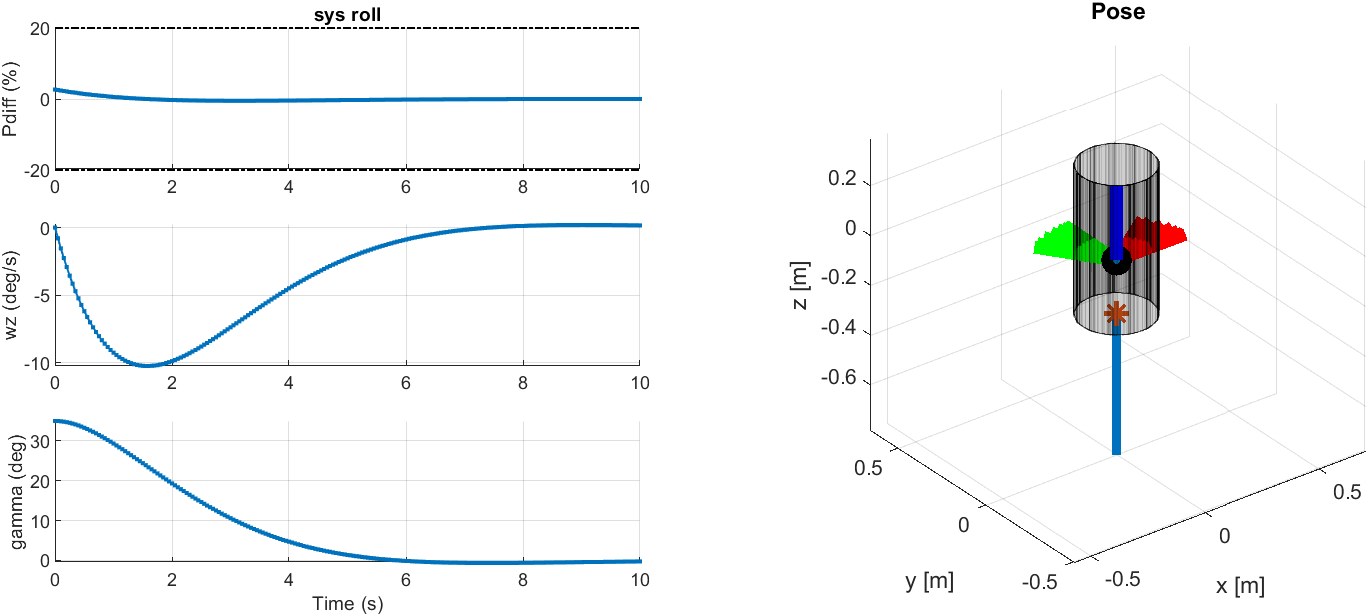
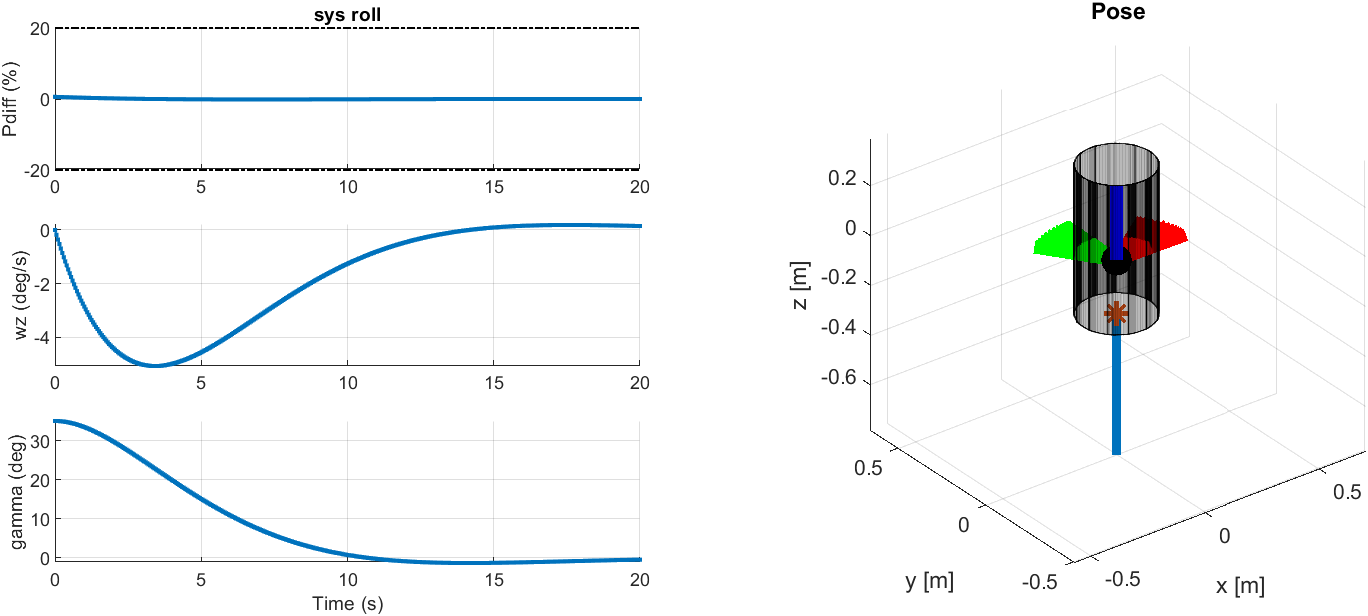
impossible to reproduce the tuning reasoning

diff --git a/rocket_project/Deliverable_3_1/Deliverable_3_1.m b/rocket_project/Deliverable_3_1/Deliverable_3_1.m
@@ -17,11 +17,15 @@ rocket = Rocket(Ts);
 sys = rocket.linearize(xs, us);
 [sys_x, sys_y, sys_z, sys_roll] = rocket.decompose(sys, xs, us);
 
+sim_duration_master = 20;
+sim_horizon_master = 2;
+sim_start_point = 4;
+
 %% Simulate the roll system
 % Design MPC controller
-H = 4; % Horizon length in seconds
+H = 2; % Horizon length in seconds
 % for H<3 there is overshoot
-sim_duration = 10;
+sim_duration = sim_duration_master;
 num_steps = sim_duration/Ts;
 x0 = [0; deg2rad(35)]; % initial state
 mpc_roll = MpcControl_roll(sys_roll, Ts, H);
@@ -54,11 +58,11 @@ ph = rocket.plotvis_sub(T, X_sub, U_sub, sys_roll, xs, us);
 
 %% Simulate the x system
 % Design MPC controller
-H = 4;
-sim_duration = 10;
+H = sim_horizon_master;
+sim_duration = sim_duration_master;
 num_steps = sim_duration/Ts;
 
-x0 = [0; 0; 0; 4]; % initial state
+x0 = [0; 0; 0; sim_start_point]; % initial state
 
 mpc_x = MpcControl_x(sys_x, Ts, H);
 % Get control input
@@ -91,11 +95,11 @@ ph = rocket.plotvis_sub(T, X_sub, U_sub, sys_x, xs, us);
 
 %% Simulate the y system
 % Design MPC controller
-H = 4;
-sim_duration = 10;
+H = sim_horizon_master;
+sim_duration = sim_duration_master;
 num_steps = sim_duration/Ts;
 
-x0 = [0; 0; 0; 4]; % initial state
+x0 = [0; 0; 0; sim_start_point]; % initial state
 
 mpc_y = MpcControl_y(sys_y, Ts, H);
 % Get control input
@@ -128,11 +132,11 @@ ph = rocket.plotvis_sub(T, X_sub, U_sub, sys_y, xs, us);
 
 %% Simulate the z system
 % Design MPC controller
-H = 4;
-sim_duration = 10;
+H = sim_horizon_master;
+sim_duration = sim_duration_master;
 num_steps = sim_duration/Ts;
 
-x0 = [0; 4]; % initial state
+x0 = [0; sim_start_point]; % initial state
 
 mpc_z = MpcControl_z(sys_z, Ts, H);
 % Get control input

diff --git a/rocket_project/Deliverable_3_1/MpcControl_y.m b/rocket_project/Deliverable_3_1/MpcControl_y.m
@@ -39,7 +39,7 @@ classdef MpcControl_y < MpcControlBase
             hu = [deg2rad(15); deg2rad(15)]; % constraint on the input d1
 
             % costs for the LQR controller
-            Q = 2*eye(nx);
+            Q = 1*eye(nx);
             R = eye(nu);
 
             % K is the LQR controller, P is the final cost
@@ -57,25 +57,6 @@ classdef MpcControl_y < MpcControlBase
             term_set = max_contr_invar_set(Poly_xu, Ak);
             [Hxf, hxf] = double(term_set); % terminal constraint
 
-             % plot the polytope
-            f = figure();
-            sgtitle("Terminal set polytope dimensions projections - y")
-            subplot(2,3,1)
-            term_set.projection(1:2).plot();
-            title("Dims 1 & 2")
-            subplot(2,3,2)
-            term_set.projection(2:3).plot();
-            title("Dims 2 & 3")
-            subplot(2,3,3)
-            term_set.projection(3:4).plot();
-            title("Dims 3 & 4")
-            subplot(2,3,4)
-            term_set.projection([3,1]).plot();
-            title("Dims 3 & 1")
-            subplot(2,3,5)
-            term_set.projection([4,1]).plot();
-            title("Dims 4 & 1")
-            exportgraphics(f, "Deliverable_3_1/Figures/3.1_y_terminal_set.png")
 
             % SET THE PROBLEM CONSTRAINTS con AND THE OBJECTIVE obj HERE
             obj = 0;

diff --git a/rocket_project/Deliverable_3_1/MpcControl_x.m b/rocket_project/Deliverable_3_1/MpcControl_x.m
@@ -39,7 +39,7 @@ classdef MpcControl_x < MpcControlBase
             hu = [deg2rad(15); deg2rad(15)];
 
             % costs for the LQR controller
-            Q = 2*eye(nx);
+            Q = 1*eye(nx);
             R = eye(nu);
 
             % K is the LQR controller, P is the final cost
@@ -55,26 +55,6 @@ classdef MpcControl_x < MpcControlBase
             % the terminal set of the controller K in closed loop
             Poly_xu = polytope(Hxu, hxu);
             term_set = max_contr_invar_set(Poly_xu,Ak);
-            
-            % plot the polytope
-            f = figure();
-            sgtitle("Terminal set polytope dimensions projections - x")
-            subplot(2,3,1)
-            term_set.projection(1:2).plot();
-            title("Dims 1 & 2")
-            subplot(2,3,2)
-            term_set.projection(2:3).plot();
-            title("Dims 2 & 3")
-            subplot(2,3,3)
-            term_set.projection(3:4).plot();
-            title("Dims 3 & 4")
-            subplot(2,3,4)
-            term_set.projection([3,1]).plot();
-            title("Dims 3 & 1")
-            subplot(2,3,5)
-            term_set.projection([4,1]).plot();
-            title("Dims 4 & 1")
-            exportgraphics(f, "Deliverable_3_1/Figures/3.1_x_terminal_set.png")
 
             [Hxf, hxf] = double(term_set); % terminal constraint
 

diff --git a/rocket_project/Deliverable_3_1/MpcControl_z.m b/rocket_project/Deliverable_3_1/MpcControl_z.m
@@ -51,7 +51,7 @@ classdef MpcControl_z < MpcControlBase
             hu = [80-56.66667; -(50-56.66667)];
 
             % costs for the LQR controller
-            Q = 10.*eye(nx);
+            Q = 1*eye(nx);
             R = eye(nu);
 
             % K is the LQR controller, P is the final cost
@@ -68,12 +68,6 @@ classdef MpcControl_z < MpcControlBase
             Poly_xu = polytope(Hxu, hxu);
             term_set = max_contr_invar_set(Poly_xu, Ak);
             [Hxf, hxf] = double(term_set); % terminal constraint
-
-             % plot the polytope
-            f = figure();
-            title("Terminal set polytope - z")
-            term_set.plot()
-            exportgraphics(f, "Deliverable_3_1/Figures/3.1_z_terminal_set.png")
 
             % SET THE PROBLEM CONSTRAINTS con AND THE OBJECTIVE obj HERE
             obj = 0;

diff --git a/rocket_project/Deliverable_3_1/MpcControl_roll.m b/rocket_project/Deliverable_3_1/MpcControl_roll.m
@@ -33,7 +33,7 @@ classdef MpcControl_roll < MpcControlBase
             %       the DISCRETE-TIME MODEL of your system
             
             % SET THE PROBLEM CONSTRAINTS con AND THE OBJECTIVE obj HERE
-            Q = 20*eye(nx);
+            Q = 1*eye(nx);
             R = eye(nu);
             [~,Pf,~] = dlqr(mpc.A, mpc.B, Q, R);
             obj = 0;
